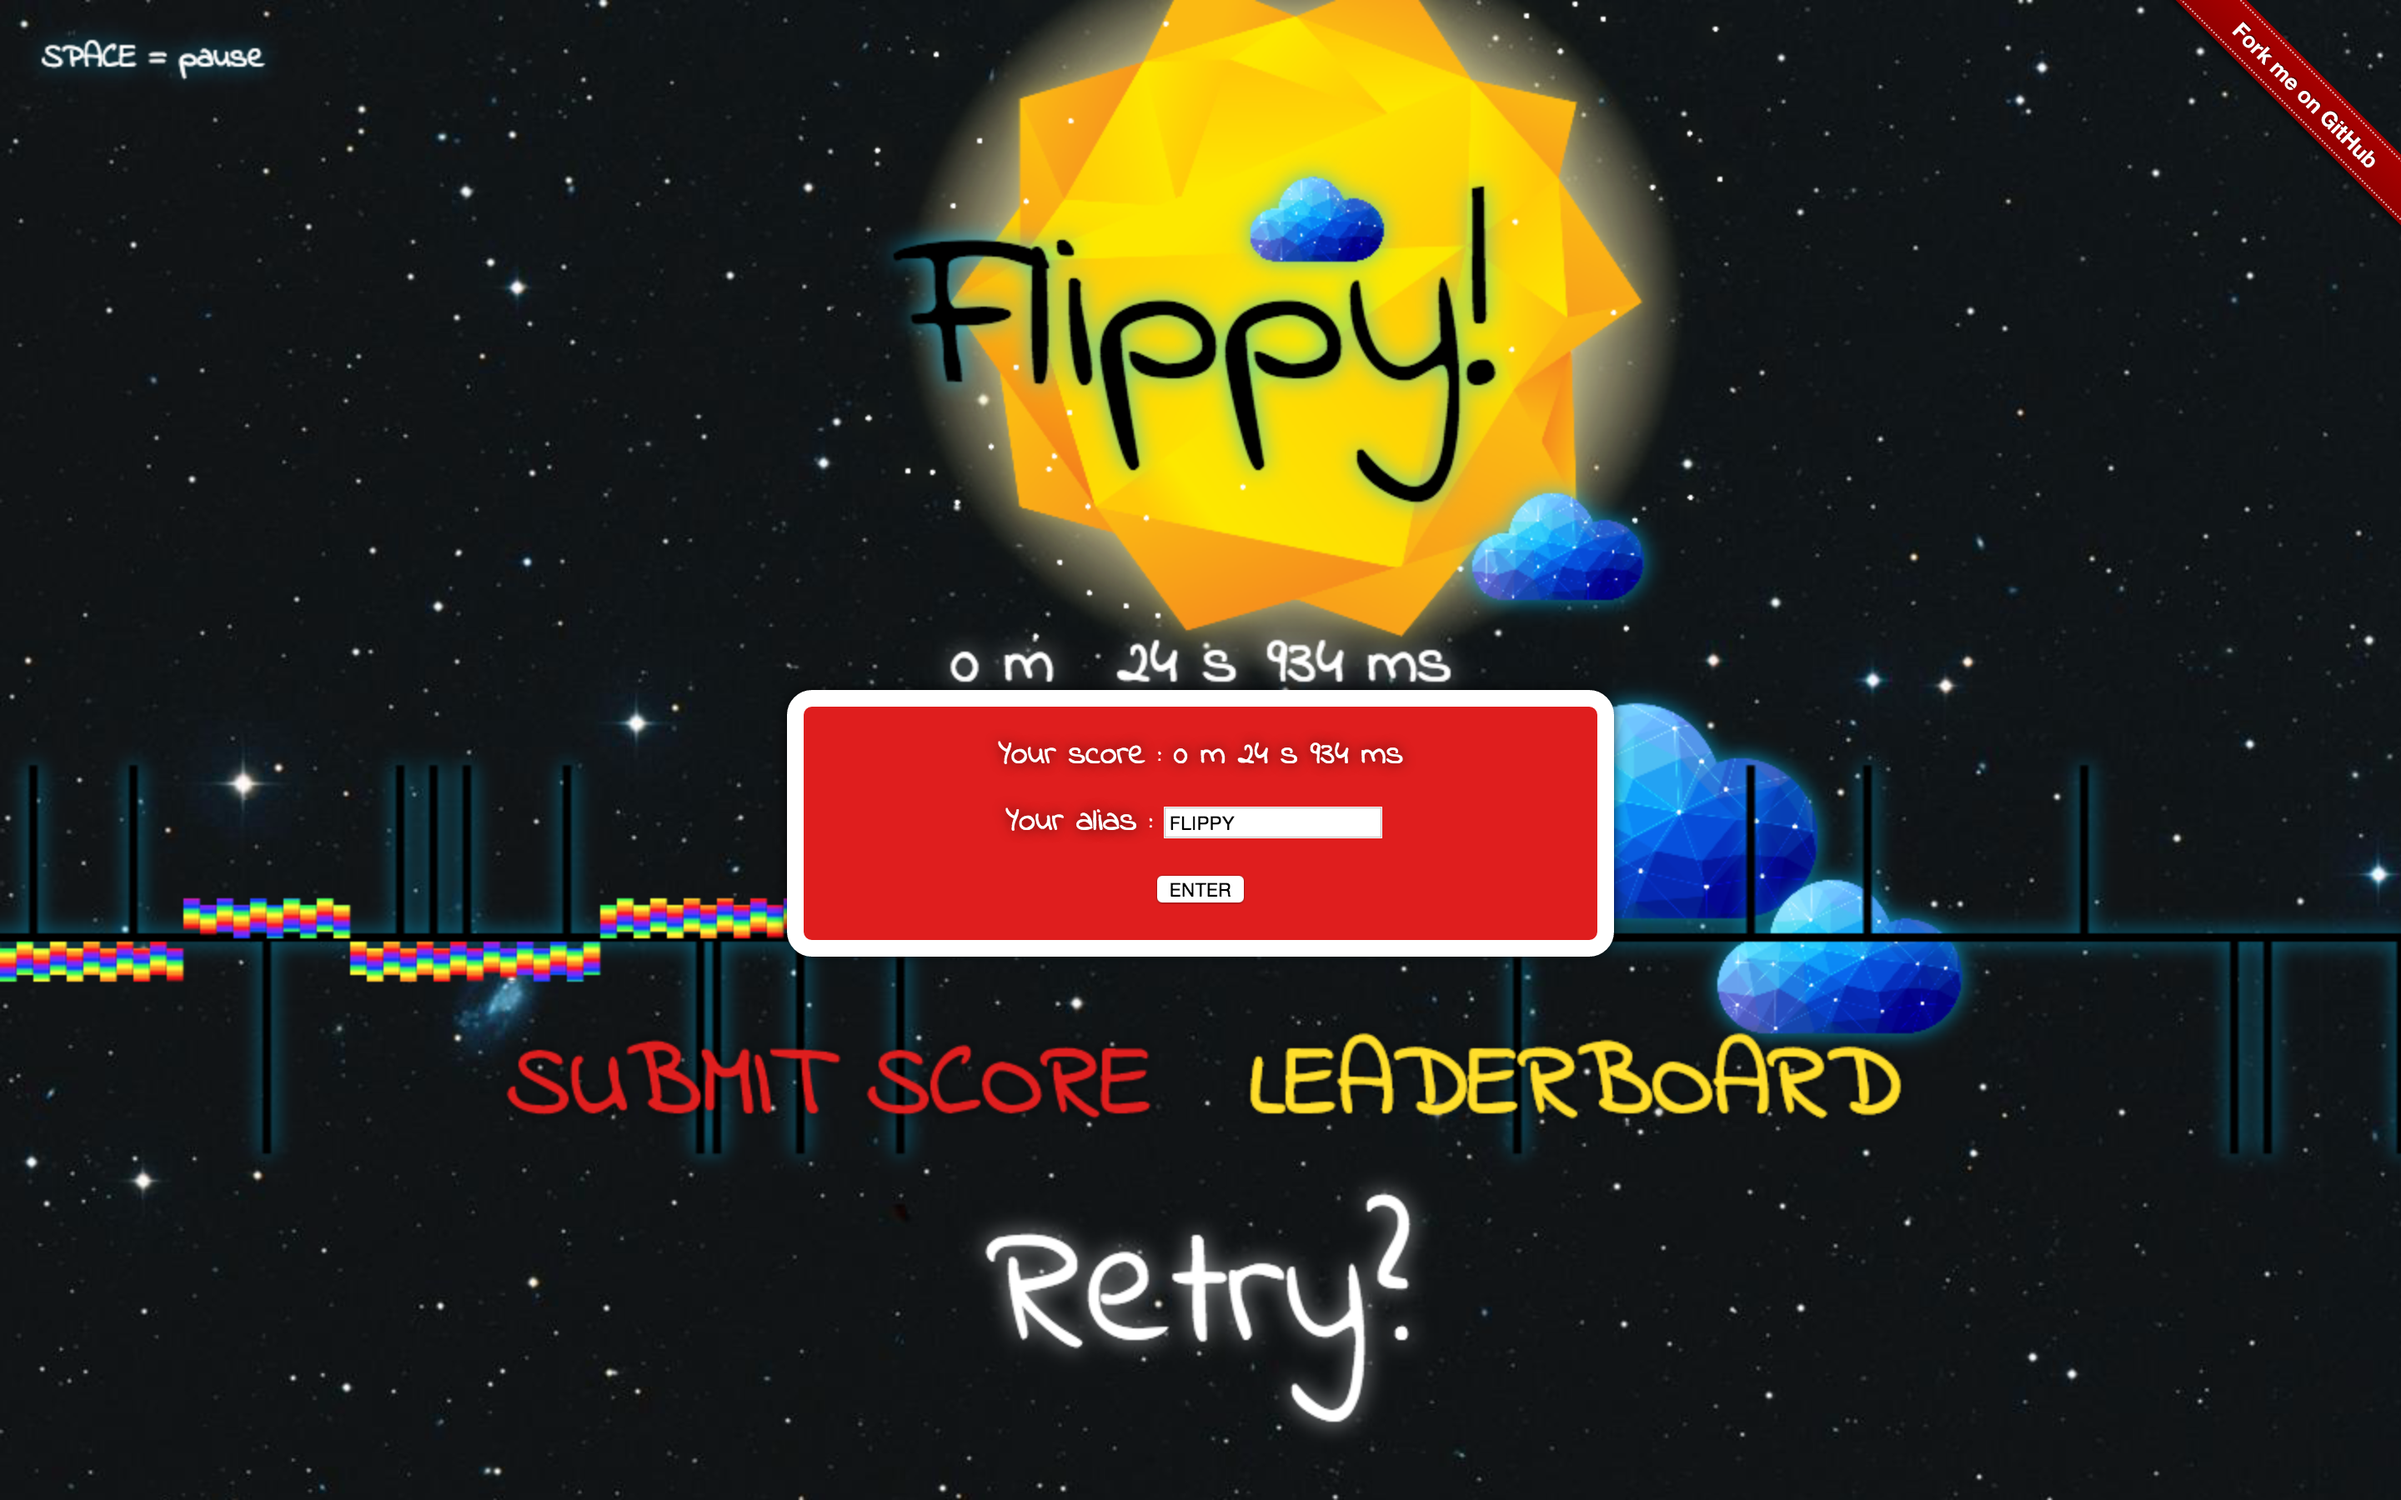
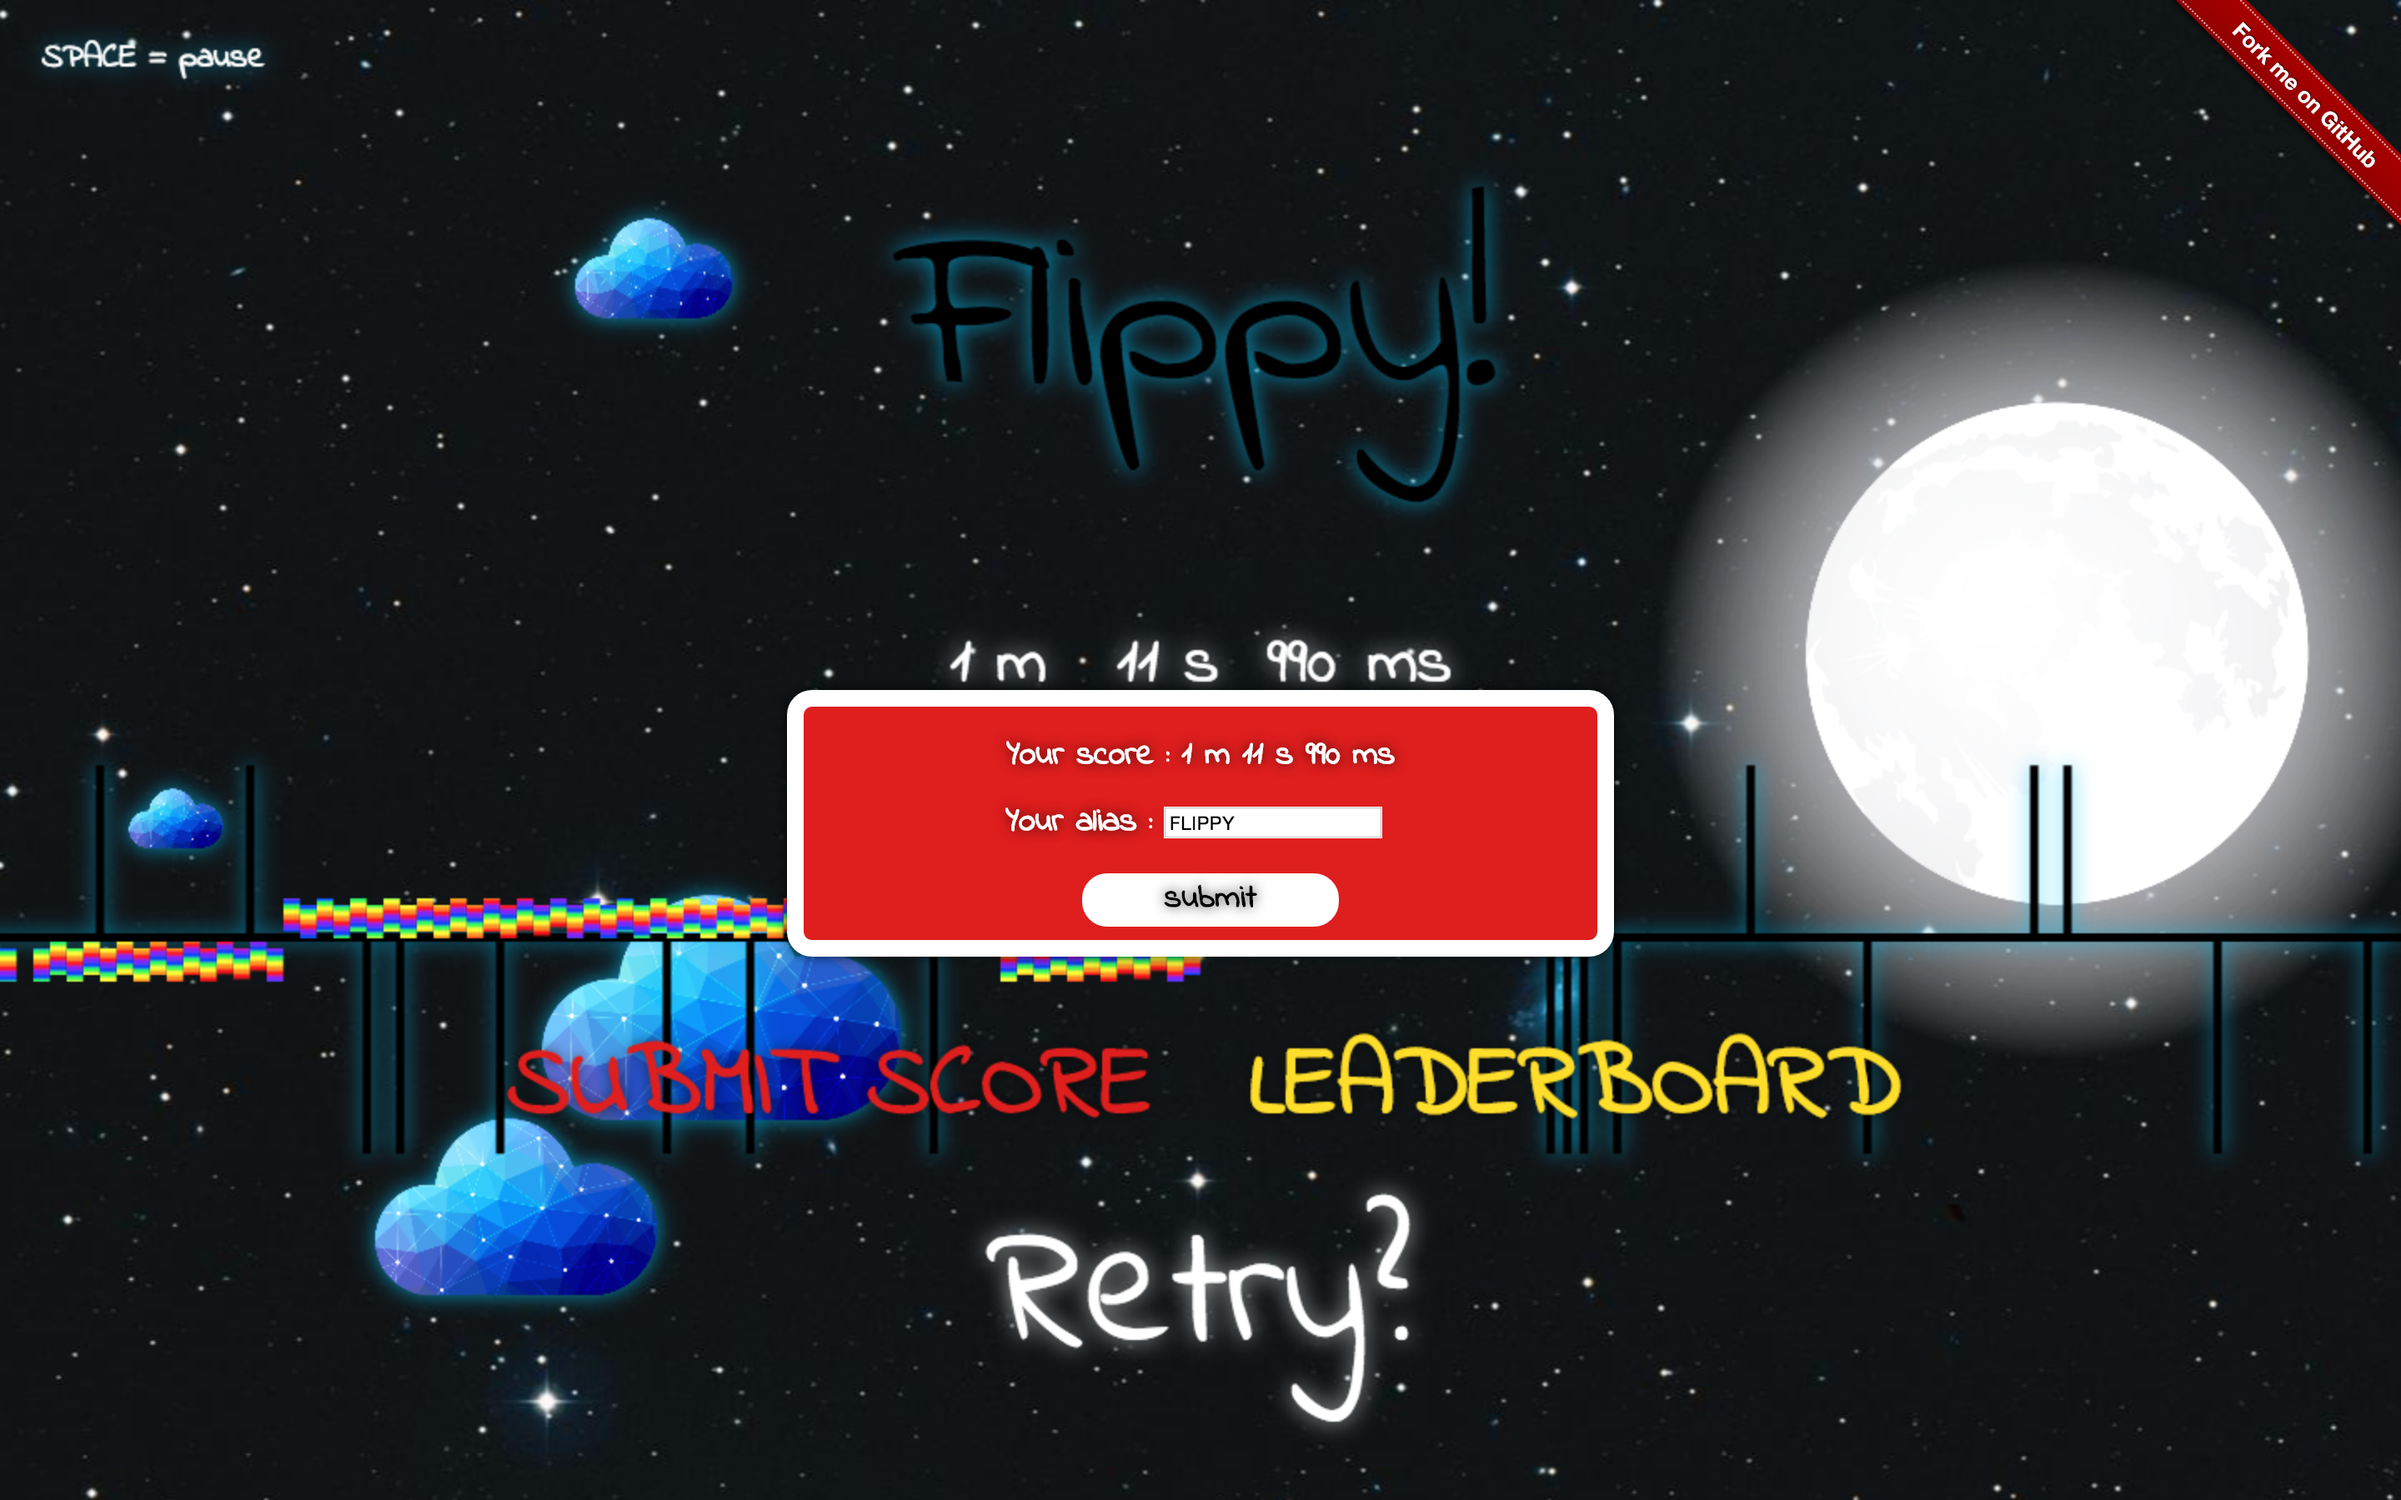
some changes to submit score form

diff --git a/assets/stylesheets/css/flippy/main.css b/assets/stylesheets/css/flippy/main.css
@@ -58,9 +58,29 @@ canvas {
     text-shadow: 0 0 10px rgba(0,0,0,0.7);
     background: #df1e1e;
     color: #fff;
-    font: 400 20px/1em "Indie Flower", Arial, sans-serif;
+    font: 800 20px/1em "Indie Flower", Arial, sans-serif;
     text-align: center;
 }
+
+#submit {
+    position: relative;
+    width: 30%;
+    line-height: 1em;
+    height: calc(100%+10px);
+    padding: 5px;
+    left: calc(35%);
+    background: transparent;
+    border: 1px solid #fff;
+    border-radius: 15px;
+    transition: background 500ms ease-in-out, color 500ms ease-in-out;
+}
+
+#submit:hover {
+    background: #fff;
+    color: #000;
+    cursor: pointer;
+}
+    
 
 #leaderboard {
     z-index: 1;

diff --git a/index.html b/index.html
@@ -61,7 +61,7 @@ Sun, moon and clouds are free vectors from dryicons.com and vecteezy.com:
       <br>
       Your alias : <input type="text" id="alias" value="FLIPPY" maxlength="30" required>
       <br><br>
-      <button type="button" id="submit">ENTER</button>
+      <div id="submit">submit</div>
     </form>
   </div>
   <div id="leaderboard">
